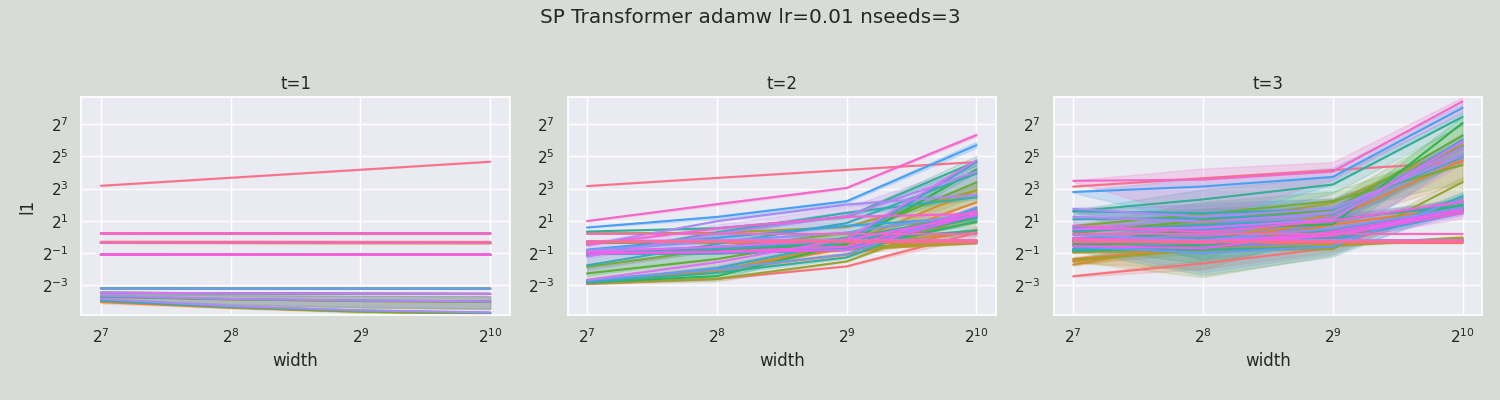
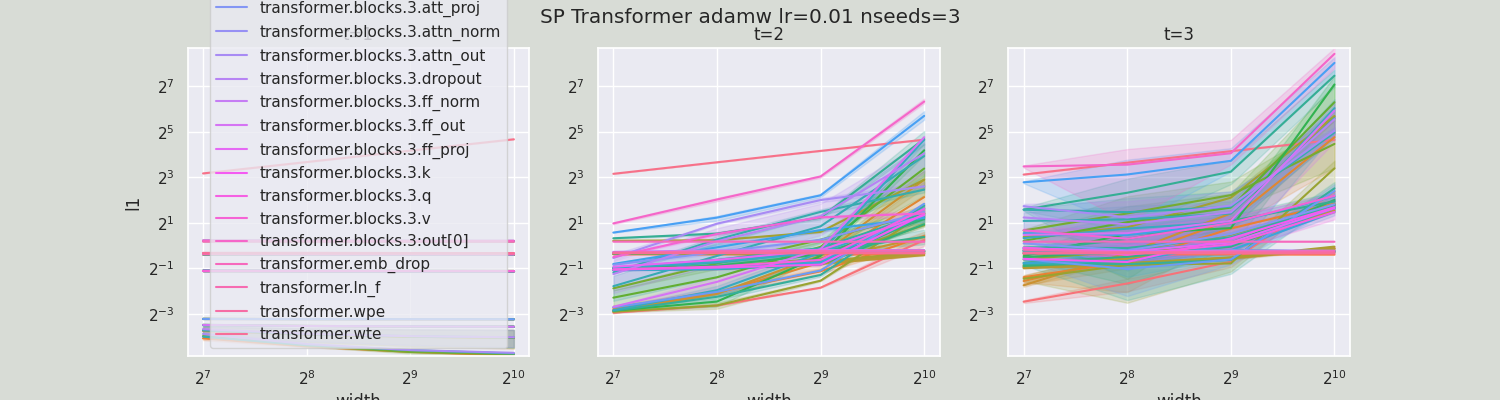
legend for coord checks

diff --git a/olmo/scaling/mup_coord_check.py b/olmo/scaling/mup_coord_check.py
@@ -134,6 +134,9 @@ def coord_check(mup, lr, optimizer, batch_size, nsteps, nseeds, args, plotdir=""
         show_progress=True,
     )
 
+    import pdb
+    pdb.set_trace()
+
     prm = "μP" if mup else "SP"
     return plot_coord_data(
         df,
@@ -233,7 +236,7 @@ if __name__ == "__main__":
             nseeds=args.coord_check_nseeds,
             args=args,
             plotdir=plotdir,
-            legend=False,
+            legend=True,
         )
         coord_check(
             mup=False,
@@ -244,7 +247,7 @@ if __name__ == "__main__":
             nseeds=args.coord_check_nseeds,
             args=args,
             plotdir=plotdir,
-            legend=False,
+            legend=True,
         )
         import sys
 
